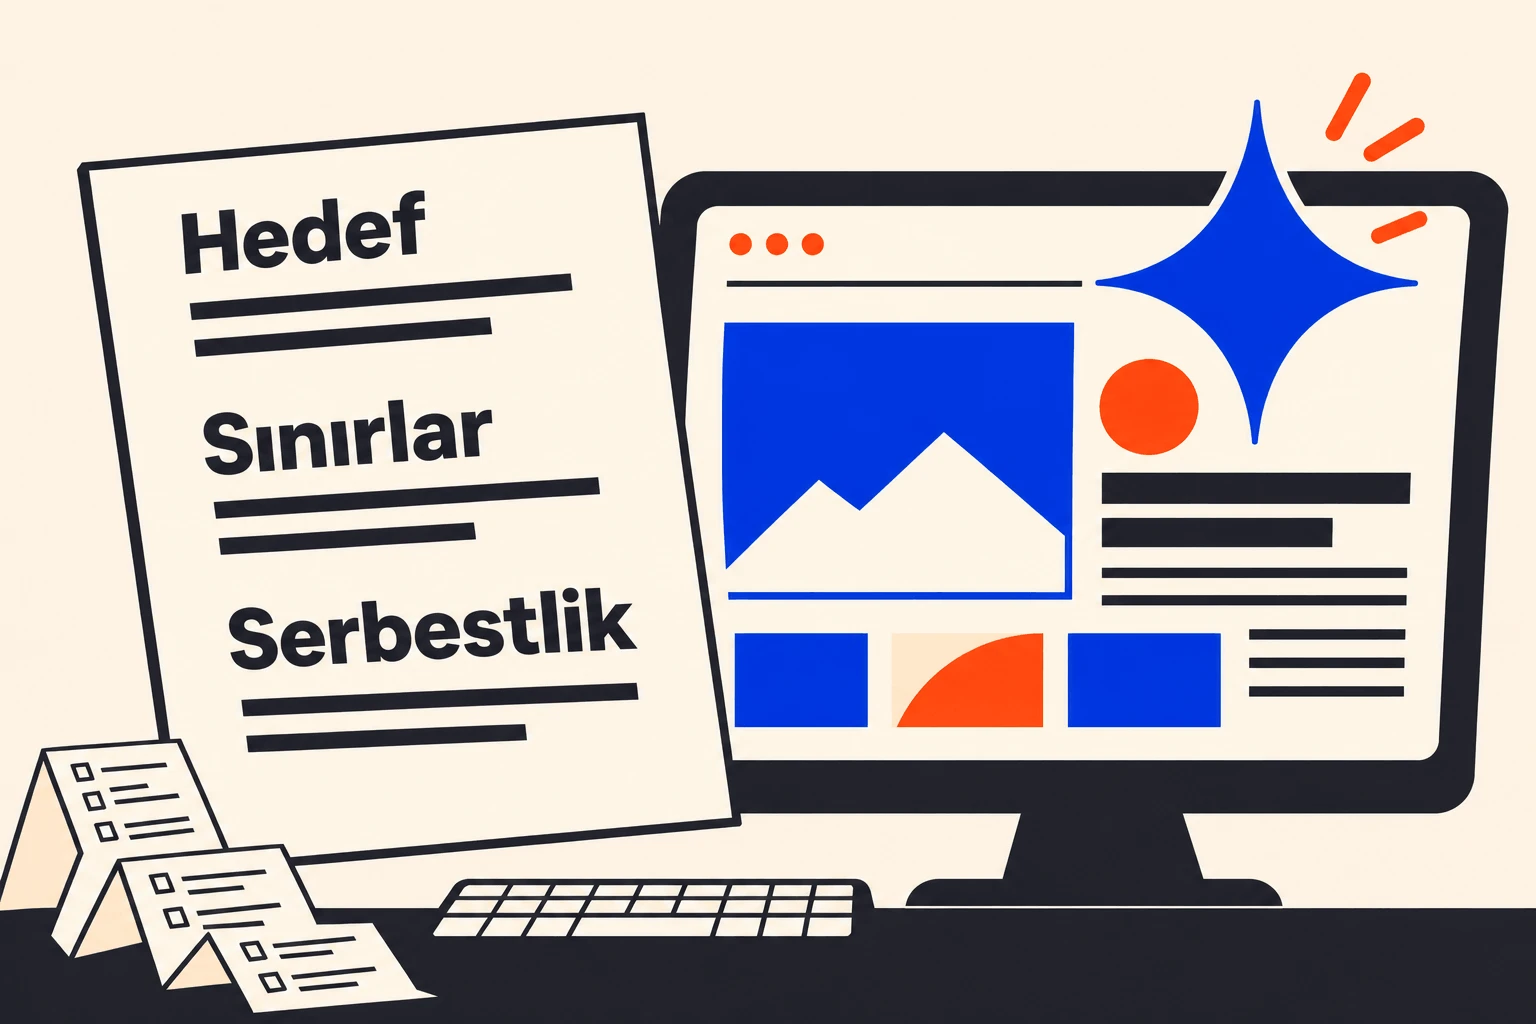
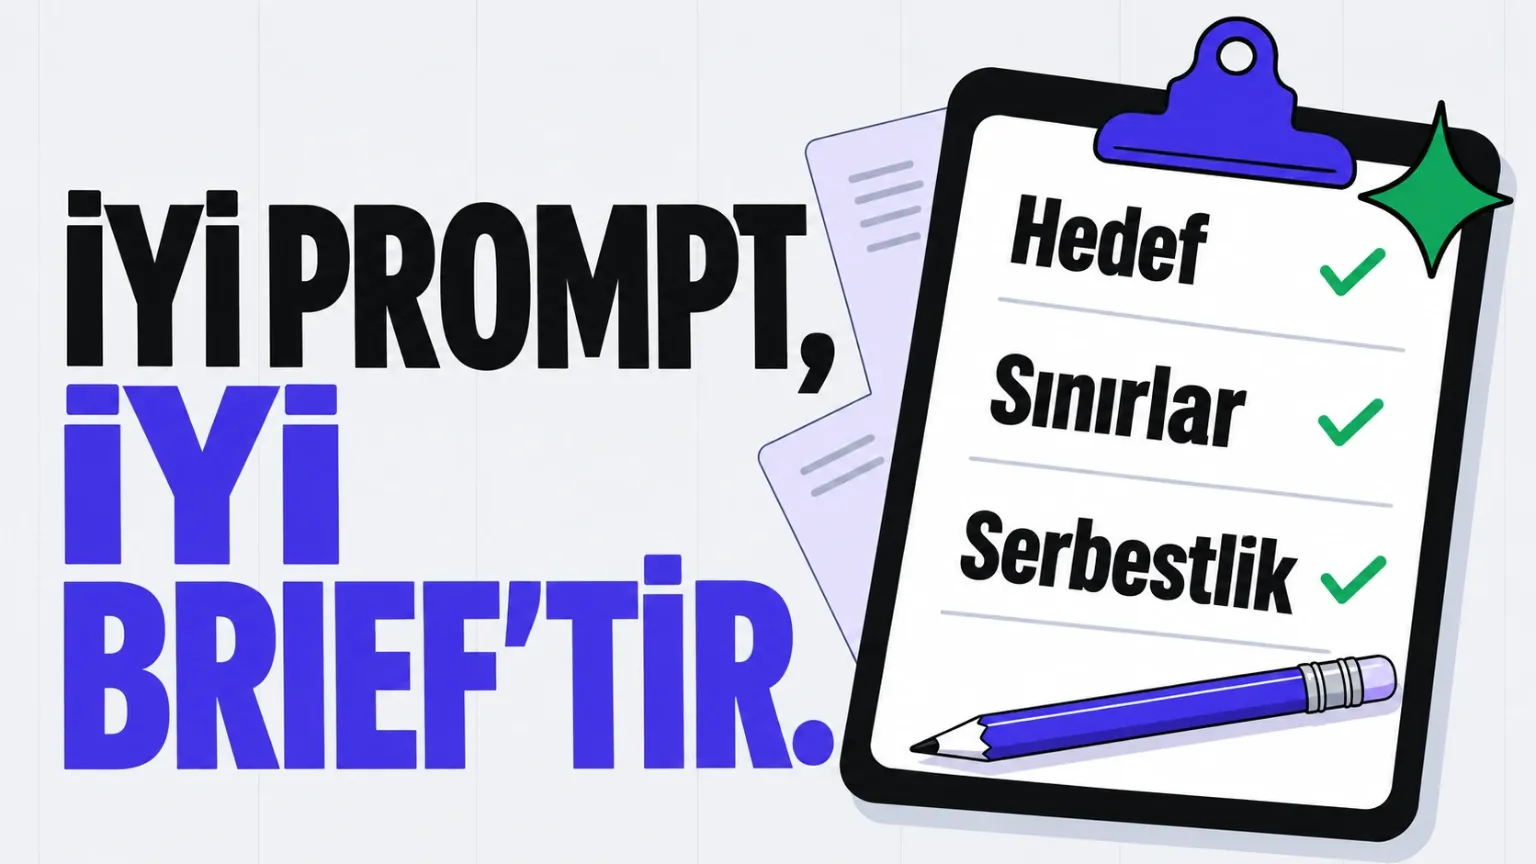
Yazı kapağı yenilendi: 16:9, 51 KB webp; mobilde kırpma kaldırıldı

diff --git a/public/yazi/prompt-brief/index.html b/public/yazi/prompt-brief/index.html
@@ -35,7 +35,7 @@
 <meta property="article:modified_time" content="2026-11-16">
 <meta property="article:author" content="Umut Cihan Pehlivan">
 <link rel="alternate" type="text/markdown" href="/yazi/prompt-brief/index.md" title="Prompt Yazmak, Aslında İyi Bir Brief Yazmak (düz metin)">
-<link rel="stylesheet" href="/assets/yazi.css?v=05601ec7">
+<link rel="stylesheet" href="/assets/yazi.css?v=7c88ef8d">
 </head>
 <body>
 <div class="guides" aria-hidden="true"><div class="wrap"><i></i><i></i><i></i><i></i></div></div>
@@ -56,7 +56,7 @@
   <p class="yz-kicker yz-mono">Bir PM masasından</p>
   <h1 class="d yz-title" id="h-neden">Prompt yazmak, aslında iyi bir brief yazmak.</h1>
   <p class="yz-byline"><a href="/#hakkimda" rel="author">Umut Cihan Pehlivan</a> · <time datetime="2026-11-16">16 Kasım 2026</time> · <span>7 dk okuma</span></p>
-  <figure class="yz-cover"><img src="/yazi/prompt-brief/kapak.webp" alt="Üzerinde Hedef, Sınırlar ve Serbestlik yazan bir brief kâğıdı; yanında ekranda bir sayfa taslağı ve parlayan bir yıldız." width="1536" height="1024" fetchpriority="high" decoding="async"></figure>
+  <figure class="yz-cover"><img src="/yazi/prompt-brief/kapak.webp" alt="“İyi prompt, iyi brief’tir.” yazısı; yanında Hedef, Sınırlar ve Serbestlik maddeleri işaretlenmiş bir kâğıt altlığı ve kalem." width="1536" height="864" fetchpriority="high" decoding="async"></figure>
 </div><nav class="yz-nav" aria-label="Bölümler"><ol><li><a href="#neden" data-nav="neden"><span class="yz-num">01</span><span class="yz-nl">Neden bu yazı</span></a></li><li><a href="#inanclar" data-nav="inanclar"><span class="yz-num">02</span><span class="yz-nl">Şablondan kalan üç alışkanlık</span></a></li><li><a href="#sinir" data-nav="sinir"><span class="yz-num">03</span><span class="yz-nl">Tarifi değil, tabağı anlat</span></a></li><li><a href="#modeller" data-nav="modeller"><span class="yz-num">04</span><span class="yz-nl">Masamdaki iki model</span></a></li><li><a href="#sablon" data-nav="sablon"><span class="yz-num">05</span><span class="yz-nl">Eski promptu brief&#39;e çevir</span></a></li><li><a href="#sonuc" data-nav="sonuc"><span class="yz-num">06</span><span class="yz-nl">Sonuç</span></a></li></ol></nav><article class="yz-article">
 <section class="yz-sec yz-hero" id="neden" aria-labelledby="h-neden" data-sec>
   <aside class="yz-tldr" aria-label="Özet"><p class="yz-mono">Özet</p><ul><li>Yeni modellere adım adım tarif yazma. <strong>Hedefi</strong>, <strong>sınırları</strong> ve modele bıraktığın <strong>serbest alanı</strong> yaz.</li><li>Rol vermek, uzun brief ve her şeyi tek mesaja sığdırmak artık işe yaramıyor. Yerine somut malzeme, kısa ve net metin, hazır proje bağlamı ver.</li><li>Kopyalanabilir şablon: <strong>Hedef + Elindekiler + Sınırlar</strong>, sonunda “Talimatımda bir hata görürsen önce bana söyle.”</li></ul></aside>
@@ -174,6 +174,6 @@ Gerisi sende. Talimatımda bir hata görürsen önce bana söyle.</pre>
   </div>
 </footer>
 <script src="/assets/main.js?v=10"></script>
-<script src="/assets/yazi.js?v=05601ec7" defer></script>
+<script src="/assets/yazi.js?v=7c88ef8d" defer></script>
 </body>
 </html>

diff --git a/public/assets/yazi.css b/public/assets/yazi.css
@@ -264,8 +264,6 @@ body:has(.yz) .guides{display:none}
   /* Tek kolon: başlık bloğu → yapışkan menü şeridi → yazı */
   .yz-head,.yz-nav,.yz-article{grid-column:1;grid-row:auto}
   .yz-head{padding-top:40px}
-  /* Dar ekranda kapak zaten kısa: görselin tamamı görünsün */
-  .yz-cover img{aspect-ratio:3/2}
   /* Menü üstte yapışkan, yatay bir şerit olur (kaydırma sadece şeridin içinde) */
   .yz-nav{top:calc(env(safe-area-inset-top,0px) + 68px);z-index:40;margin:0 -32px;padding:10px 32px;background:color-mix(in srgb,var(--bg) 90%,transparent);backdrop-filter:blur(12px);-webkit-backdrop-filter:blur(12px);border-bottom:1px solid var(--line)}
   /* Şeritte yalnız numaralar: hepsi sığar, kesik yok. Bölüm adı ekran okuyucuya kalır. */

diff --git a/public/yazi/prompt-brief/index.md b/public/yazi/prompt-brief/index.md
@@ -3,7 +3,7 @@
 Umut Cihan Pehlivan · 16 Kasım 2026 · 7 dk okuma  
 Kaynak: https://ucpehlivan.web.app/yazi/prompt-brief/
 
-![Üzerinde Hedef, Sınırlar ve Serbestlik yazan bir brief kâğıdı; yanında ekranda bir sayfa taslağı ve parlayan bir yıldız.](https://ucpehlivan.web.app/yazi/prompt-brief/kapak.webp)
+![“İyi prompt, iyi brief’tir.” yazısı; yanında Hedef, Sınırlar ve Serbestlik maddeleri işaretlenmiş bir kâğıt altlığı ve kalem.](https://ucpehlivan.web.app/yazi/prompt-brief/kapak.webp)
 
 > Yeni modeller zeki; adım adım reçeteyle kısıtlanınca değil, hedef ve sınırla yönlendirilince iyi iş çıkarıyor. Bir proje yöneticisinin gözünden interaktif bir okuma.
 
